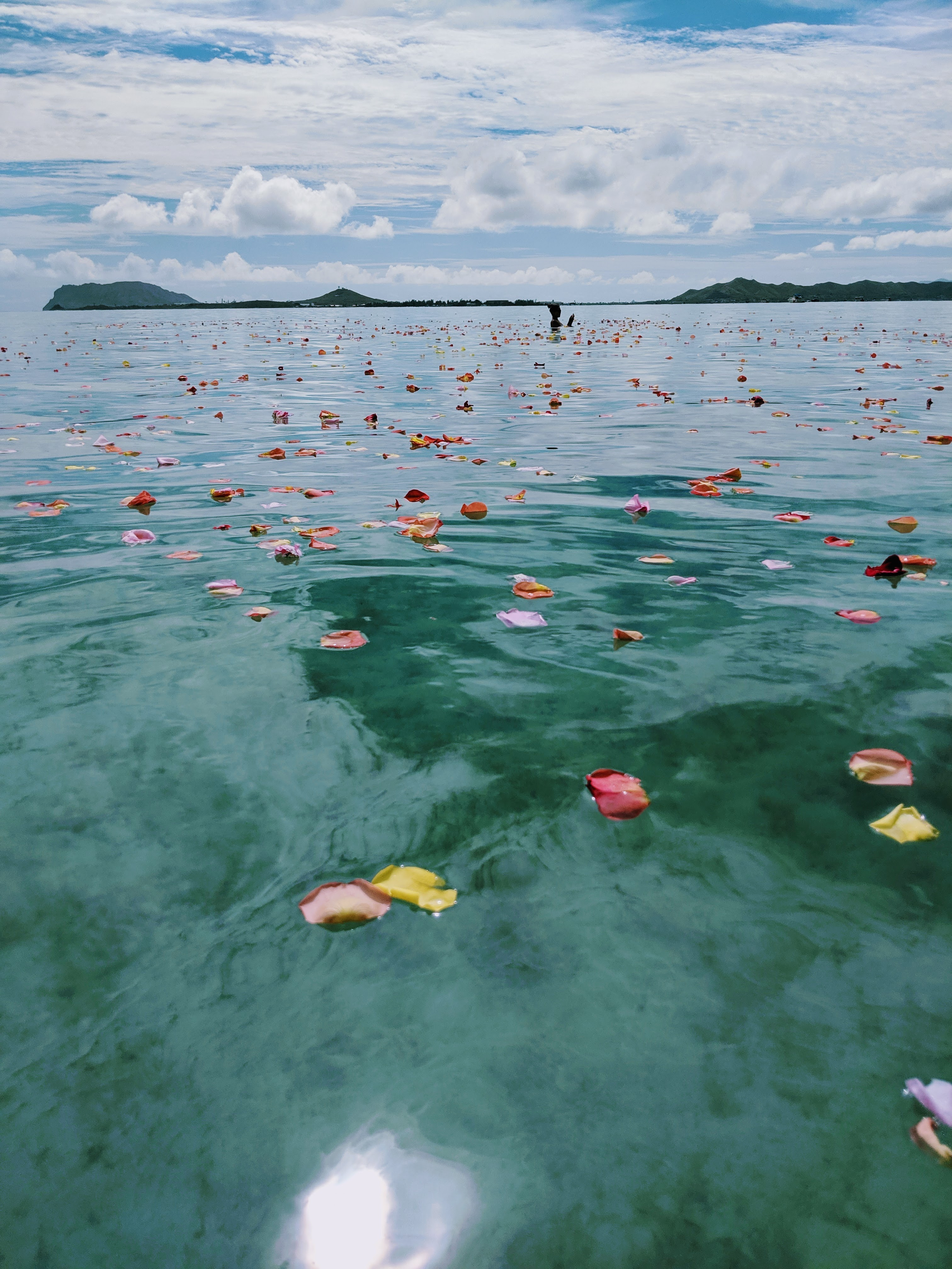
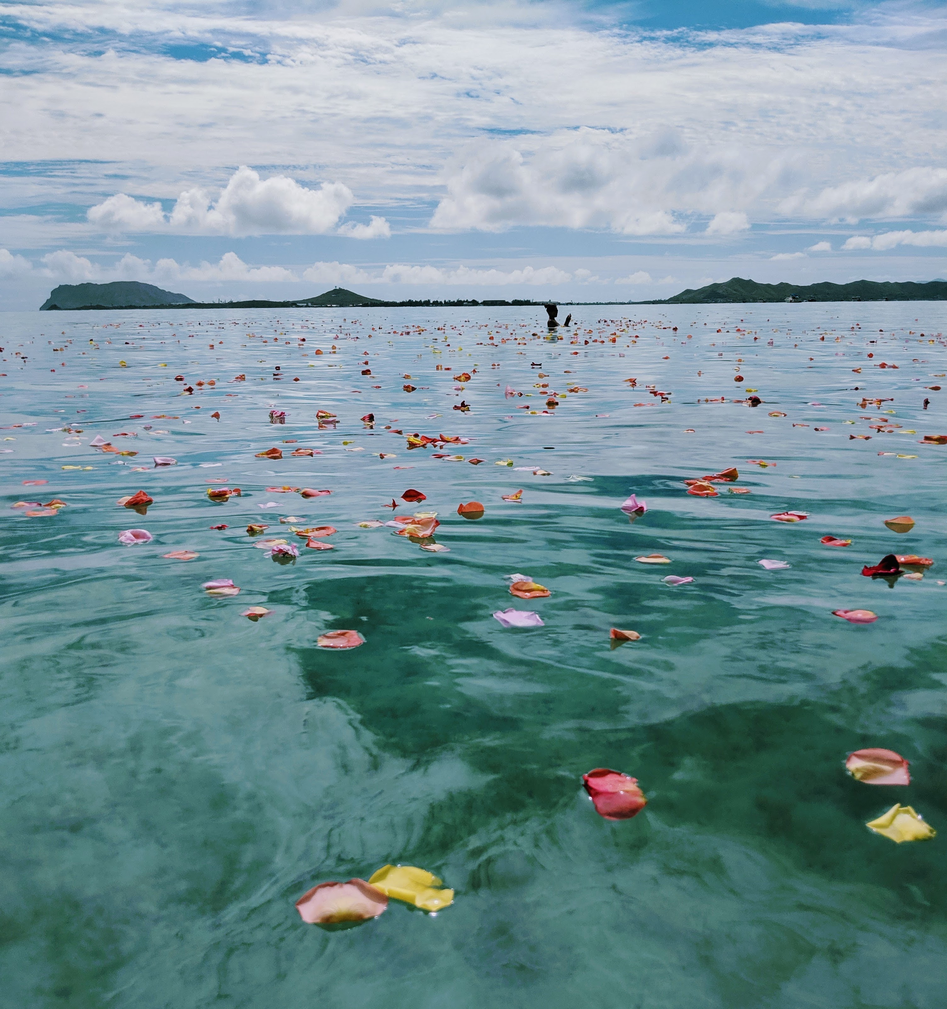
homepage for aloneness <3

diff --git a/index.html b/index.html
@@ -37,15 +37,15 @@
         </div>
       </div>
     </nav>
-    <section class="hero is-medium has-background-primary-light">
+    <section class="hero is-medium has-background-primary-invert">
       <div class="hero-body">
         <div class="container">
           <div class="columns is-centered">
             <div class="column has-text-centered">
               <h2 class="subtitle is-4 mt-1 mb-4 has-text-primary">
-                Do you feel lost? Exhausted? Alone and unseen?
+                Do you feel Alone?
               </h2>
-              <img src="images/popo_flowers_cropped.jpeg" alt="floating">
+              <img src="images/greg-rakozy-0LU4vO5iFpM-unsplash.jpeg" alt="floating">
               <h4 class="subtitle is-5 mt-4">
                 You are Exactly Where You Need to be.
               </h4>
@@ -54,23 +54,27 @@
         </div>
       </div>
     </section>
+    <hr>
     <section class="hero is-medium is-primary-invert">
       <div class="hero-body">
         <div class="container">
           <div class="columns">
             <div class="column is-two-thirds">
               <h2 class="subtitle is-4 has-text-primary is-family-primary">
-                Reclaim Your Inner i, Reclaim Your Power.
+                Reclaim Your Inner i, Reclaim Your Solitude.
               </h2>
               <p>
-                Are you looking for something more? Has your entire world shifted, turned upside-down, crumbled, rearranged, and left you wondering how to fit the pieces together again? 
+                X% of people report that they find it difficult to sit with themselves. And yet, spending time with ourselves, being in our own skin, reflecting on how we think, work, love, and create, is essential to our own growth.
               </p>
               <p>
-                Now is the time, and this is the place, to fly.
+                Self-reflection is scary, but necessary for transformation. It is looking back, so that the view looking forward is even clearer.
+              </p>
+              <p>
+                You are ready, to transform aloneness into solitude, into self-awareness, into inner peace.
               </p>
             </div>
             <div class="column is-one-third">
-              <img src="images/stephen-leonardi-wPlzrculha8-unsplash.jpeg" alt="flying">
+              <img src="images/popo_flowers_cropped2.jpg" alt="flying">
             </div>
           </div>
           <div class="columns">
@@ -85,7 +89,7 @@
     </section>
     <hr>
     <section class="hero is-medium is-primary-invert">
-      <div class="hero-body" style="background-image: url(images/greg-rakozy-0LU4vO5iFpM-unsplash.jpeg);">
+      <div class="hero-body hero-with-text" style="background-image: url(images/eneko-urunuela-I2YSmEUAgDY-unsplash.jpeg);">
         <div class="container">
           <div class="columns is-centered has-text-centered">
             <div class="column is-two-thirds text-over-image">
@@ -93,17 +97,18 @@
                 Open Your Eyes... You're Already Flying
               </h2>
               <p>
-                <strong>Inner i</strong> provides guidance for people who are feeling stuck in their life patterns, drained, and unable to recharge, to reconnect deeply with themselves, their relationships, their passions, and their purpose in order to lead a more energizing and meaningful life in harmony with the full range of human emotions.
+                <strong>Inner i</strong> provides guidance for people who are feeling stuck in their life patterns, alone, and drained and unable to recharge, to reconnect deeply with themselves, their relationships, their passions, and their purpose in order to lead a more energizing and meaningful life in harmony with the full range of human emotions.
               </p>
               <p>
-                Inner i helps you remember... you're already flying.
+                Inner i helps you rediscover... you're already flying.
               </p>
             </div>
           </div>
         </div>
       </div>
     </section>
-    <section class="hero is-medium has-background-primary-light">
+    <hr>
+    <section class="hero is-medium has-background-primary-invert">
       <div class="hero-body">
         <div class="container">
           <div class="columns is-centered has-text-centered">
@@ -152,6 +157,7 @@
         </div>
       </div>
     </section>
+    <hr>
     <footer class="footer has-text-centered">
       <div class="container">
         <div class="columns">

diff --git a/css/main.css b/css/main.css
@@ -7796,6 +7796,9 @@ button {
   /* background-repeat: no-repeat; */
   background-attachment: fixed; }
 
+.hero-body.hero-with-text {
+  background-size: cover; }
+
 .text-over-image {
   background: white;
   opacity: .5;
@@ -7806,7 +7809,8 @@ button {
 
 p {
   margin-block-start: 1em;
-  margin-block-end: 1em; }
+  margin-block-end: 1em;
+  font-family: "Helvetica", "Arial", sans-serif; }
 
 p.no-margin-paragraph {
   margin-block-start: 0; }

diff --git a/_sass/main.scss b/_sass/main.scss
@@ -75,6 +75,10 @@ button {
     background-attachment: fixed;
 }
 
+.hero-body.hero-with-text {
+    background-size: cover;
+}
+
 .text-over-image {
     background: white;
     opacity: .5;
@@ -88,7 +92,7 @@ button {
 p {
     margin-block-start: 1em;
     margin-block-end: 1em;
-    // font-family: $family-sans-serif;
+    font-family: $family-sans-serif;
 }
 
 p.no-margin-paragraph {
